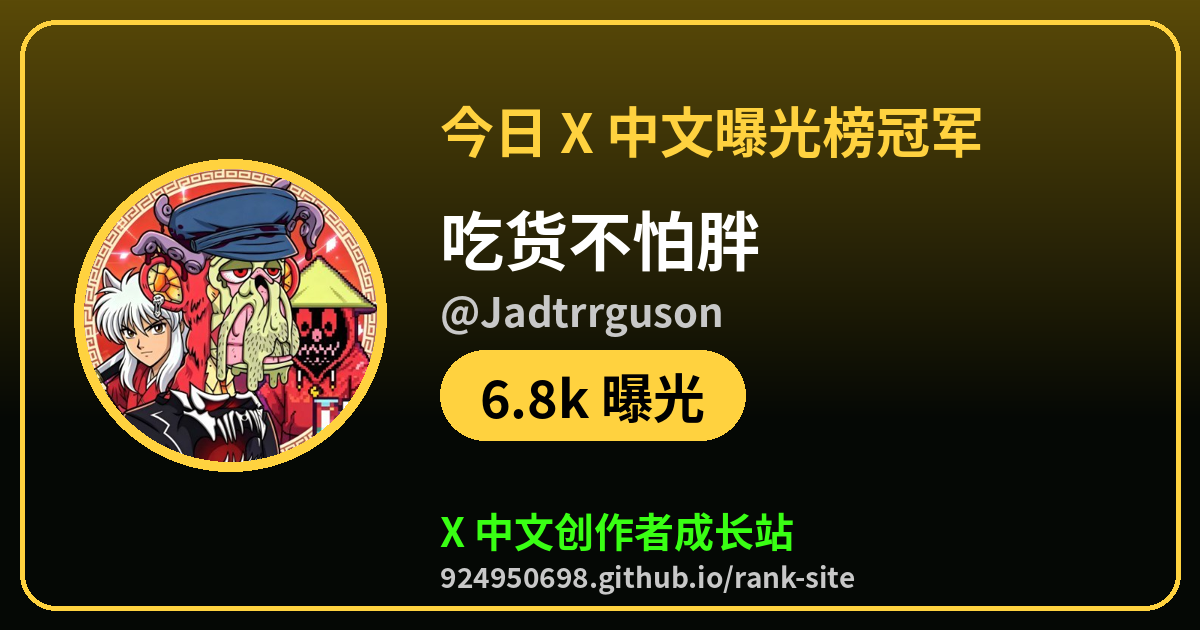
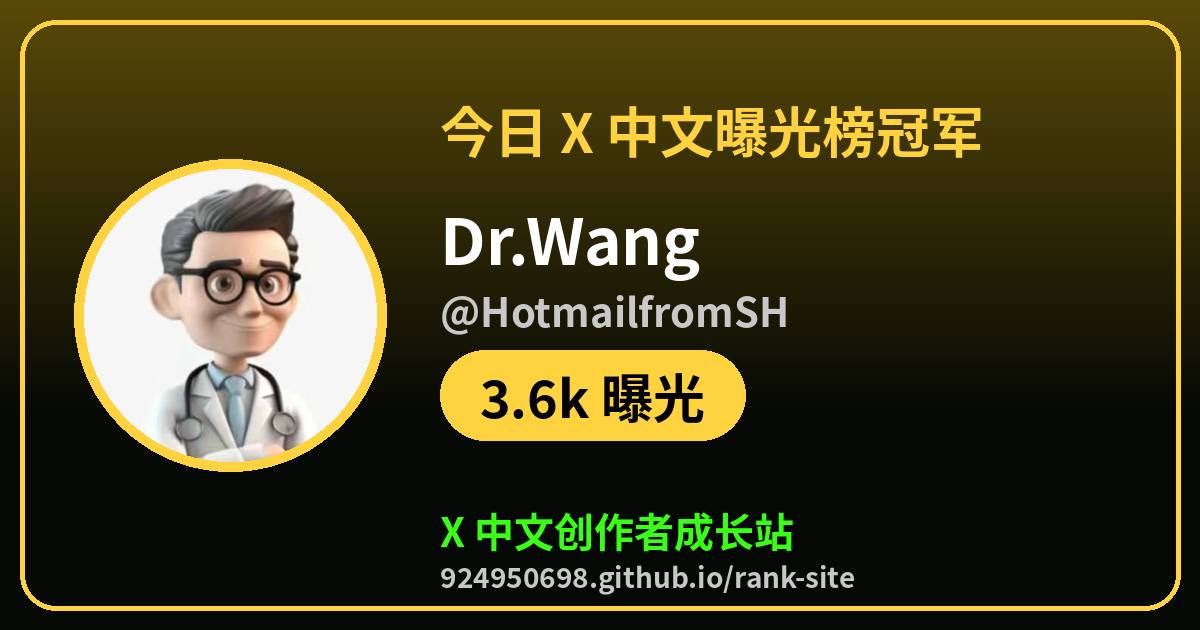
champ: 2026-10-18 19:28 CST

Changed region(s): [[0.0617, 0.2714, 0.3392, 0.754], [0.37, 0.3317, 0.6783, 0.5429], [0.4008, 0.6032, 0.4625, 0.6635]]

diff --git a/champ/exposure.html b/champ/exposure.html
@@ -1,7 +1,7 @@
 <!doctype html><html lang="zh-CN"><head><meta charset="utf-8"><meta name="viewport" content="width=device-width,initial-scale=1">
-<title>今日 X 中文曝光榜冠军：🍭吃货不怕胖（@Jadtrrguson）</title><meta name="description" content="6.8k 曝光，来看看今天谁在爆，你排第几">
-<meta property="og:type" content="website"><meta property="og:url" content="https://924950698.github.io/rank-site/champ/exposure.html"><meta property="og:title" content="今日 X 中文曝光榜冠军：🍭吃货不怕胖（@Jadtrrguson）"><meta property="og:description" content="6.8k 曝光，来看看今天谁在爆，你排第几">
-<meta property="og:image" content="https://924950698.github.io/rank-site/champ/exposure.png?v=20261018T1003"><meta name="twitter:card" content="summary_large_image"><meta name="twitter:site" content="@tigerr3aue">
-<meta name="twitter:title" content="今日 X 中文曝光榜冠军：🍭吃货不怕胖（@Jadtrrguson）"><meta name="twitter:description" content="6.8k 曝光，来看看今天谁在爆，你排第几"><meta name="twitter:image" content="https://924950698.github.io/rank-site/champ/exposure.png?v=20261018T1003">
-<meta http-equiv="refresh" content="0;url=https://924950698.github.io/rank-site/?champ=Jadtrrguson&amp;board=exposure#rank"><script>location.replace("https://924950698.github.io/rank-site/?champ=Jadtrrguson&board=exposure#rank")</script></head>
-<body style="background:#000;color:#fff;font-family:sans-serif;text-align:center;padding:40px"><a href="https://924950698.github.io/rank-site/?champ=Jadtrrguson&amp;board=exposure#rank" style="color:#39ff14">去 X 中文创作者成长站看冠军卡片</a></body></html>
+<title>今日 X 中文曝光榜冠军：Dr.Wang（@HotmailfromSH）</title><meta name="description" content="3.6k 曝光，来看看今天谁在爆，你排第几">
+<meta property="og:type" content="website"><meta property="og:url" content="https://924950698.github.io/rank-site/champ/exposure.html"><meta property="og:title" content="今日 X 中文曝光榜冠军：Dr.Wang（@HotmailfromSH）"><meta property="og:description" content="3.6k 曝光，来看看今天谁在爆，你排第几">
+<meta property="og:image" content="https://924950698.github.io/rank-site/champ/exposure.png?v=20261018T1109"><meta name="twitter:card" content="summary_large_image"><meta name="twitter:site" content="@tigerr3aue">
+<meta name="twitter:title" content="今日 X 中文曝光榜冠军：Dr.Wang（@HotmailfromSH）"><meta name="twitter:description" content="3.6k 曝光，来看看今天谁在爆，你排第几"><meta name="twitter:image" content="https://924950698.github.io/rank-site/champ/exposure.png?v=20261018T1109">
+<meta http-equiv="refresh" content="0;url=https://924950698.github.io/rank-site/?champ=HotmailfromSH&amp;board=exposure#rank"><script>location.replace("https://924950698.github.io/rank-site/?champ=HotmailfromSH&board=exposure#rank")</script></head>
+<body style="background:#000;color:#fff;font-family:sans-serif;text-align:center;padding:40px"><a href="https://924950698.github.io/rank-site/?champ=HotmailfromSH&amp;board=exposure#rank" style="color:#39ff14">去 X 中文创作者成长站看冠军卡片</a></body></html>

diff --git a/champ/comments.html b/champ/comments.html
@@ -1,7 +1,7 @@
 <!doctype html><html lang="zh-CN"><head><meta charset="utf-8"><meta name="viewport" content="width=device-width,initial-scale=1">
-<title>今日 X 中文评论榜冠军：🍭吃货不怕胖（@Jadtrrguson）</title><meta name="description" content="61 评论，来看看今天谁在爆，你排第几">
-<meta property="og:type" content="website"><meta property="og:url" content="https://924950698.github.io/rank-site/champ/comments.html"><meta property="og:title" content="今日 X 中文评论榜冠军：🍭吃货不怕胖（@Jadtrrguson）"><meta property="og:description" content="61 评论，来看看今天谁在爆，你排第几">
-<meta property="og:image" content="https://924950698.github.io/rank-site/champ/comments.png?v=20261018T1003"><meta name="twitter:card" content="summary_large_image"><meta name="twitter:site" content="@tigerr3aue">
-<meta name="twitter:title" content="今日 X 中文评论榜冠军：🍭吃货不怕胖（@Jadtrrguson）"><meta name="twitter:description" content="61 评论，来看看今天谁在爆，你排第几"><meta name="twitter:image" content="https://924950698.github.io/rank-site/champ/comments.png?v=20261018T1003">
-<meta http-equiv="refresh" content="0;url=https://924950698.github.io/rank-site/?champ=Jadtrrguson&amp;board=comments#rank"><script>location.replace("https://924950698.github.io/rank-site/?champ=Jadtrrguson&board=comments#rank")</script></head>
-<body style="background:#000;color:#fff;font-family:sans-serif;text-align:center;padding:40px"><a href="https://924950698.github.io/rank-site/?champ=Jadtrrguson&amp;board=comments#rank" style="color:#39ff14">去 X 中文创作者成长站看冠军卡片</a></body></html>
+<title>今日 X 中文评论榜冠军：LiuXing（@ETH116688）</title><meta name="description" content="27 评论，来看看今天谁在爆，你排第几">
+<meta property="og:type" content="website"><meta property="og:url" content="https://924950698.github.io/rank-site/champ/comments.html"><meta property="og:title" content="今日 X 中文评论榜冠军：LiuXing（@ETH116688）"><meta property="og:description" content="27 评论，来看看今天谁在爆，你排第几">
+<meta property="og:image" content="https://924950698.github.io/rank-site/champ/comments.png?v=20261018T1109"><meta name="twitter:card" content="summary_large_image"><meta name="twitter:site" content="@tigerr3aue">
+<meta name="twitter:title" content="今日 X 中文评论榜冠军：LiuXing（@ETH116688）"><meta name="twitter:description" content="27 评论，来看看今天谁在爆，你排第几"><meta name="twitter:image" content="https://924950698.github.io/rank-site/champ/comments.png?v=20261018T1109">
+<meta http-equiv="refresh" content="0;url=https://924950698.github.io/rank-site/?champ=ETH116688&amp;board=comments#rank"><script>location.replace("https://924950698.github.io/rank-site/?champ=ETH116688&board=comments#rank")</script></head>
+<body style="background:#000;color:#fff;font-family:sans-serif;text-align:center;padding:40px"><a href="https://924950698.github.io/rank-site/?champ=ETH116688&amp;board=comments#rank" style="color:#39ff14">去 X 中文创作者成长站看冠军卡片</a></body></html>

diff --git a/champ/growth.html b/champ/growth.html
@@ -1,7 +1,7 @@
 <!doctype html><html lang="zh-CN"><head><meta charset="utf-8"><meta name="viewport" content="width=device-width,initial-scale=1">
 <title>今日 X 中文涨粉榜冠军：普通人的杠杆笔记（@huangjun92）</title><meta name="description" content="+1.0k 粉，来看看今天谁在爆，你排第几">
 <meta property="og:type" content="website"><meta property="og:url" content="https://924950698.github.io/rank-site/champ/growth.html"><meta property="og:title" content="今日 X 中文涨粉榜冠军：普通人的杠杆笔记（@huangjun92）"><meta property="og:description" content="+1.0k 粉，来看看今天谁在爆，你排第几">
-<meta property="og:image" content="https://924950698.github.io/rank-site/champ/growth.png?v=20261018T1003"><meta name="twitter:card" content="summary_large_image"><meta name="twitter:site" content="@tigerr3aue">
-<meta name="twitter:title" content="今日 X 中文涨粉榜冠军：普通人的杠杆笔记（@huangjun92）"><meta name="twitter:description" content="+1.0k 粉，来看看今天谁在爆，你排第几"><meta name="twitter:image" content="https://924950698.github.io/rank-site/champ/growth.png?v=20261018T1003">
+<meta property="og:image" content="https://924950698.github.io/rank-site/champ/growth.png?v=20261018T1109"><meta name="twitter:card" content="summary_large_image"><meta name="twitter:site" content="@tigerr3aue">
+<meta name="twitter:title" content="今日 X 中文涨粉榜冠军：普通人的杠杆笔记（@huangjun92）"><meta name="twitter:description" content="+1.0k 粉，来看看今天谁在爆，你排第几"><meta name="twitter:image" content="https://924950698.github.io/rank-site/champ/growth.png?v=20261018T1109">
 <meta http-equiv="refresh" content="0;url=https://924950698.github.io/rank-site/?champ=huangjun92&amp;board=growth#rank"><script>location.replace("https://924950698.github.io/rank-site/?champ=huangjun92&board=growth#rank")</script></head>
 <body style="background:#000;color:#fff;font-family:sans-serif;text-align:center;padding:40px"><a href="https://924950698.github.io/rank-site/?champ=huangjun92&amp;board=growth#rank" style="color:#39ff14">去 X 中文创作者成长站看冠军卡片</a></body></html>

diff --git a/champ/rising.html b/champ/rising.html
@@ -1,7 +1,7 @@
 <!doctype html><html lang="zh-CN"><head><meta charset="utf-8"><meta name="viewport" content="width=device-width,initial-scale=1">
 <title>今日 X 中文新号进步榜冠军：Baozoupanpan（@Baozoupan）</title><meta name="description" content="+484 粉，来看看今天谁在爆，你排第几">
 <meta property="og:type" content="website"><meta property="og:url" content="https://924950698.github.io/rank-site/champ/rising.html"><meta property="og:title" content="今日 X 中文新号进步榜冠军：Baozoupanpan（@Baozoupan）"><meta property="og:description" content="+484 粉，来看看今天谁在爆，你排第几">
-<meta property="og:image" content="https://924950698.github.io/rank-site/champ/rising.png?v=20261018T1003"><meta name="twitter:card" content="summary_large_image"><meta name="twitter:site" content="@tigerr3aue">
-<meta name="twitter:title" content="今日 X 中文新号进步榜冠军：Baozoupanpan（@Baozoupan）"><meta name="twitter:description" content="+484 粉，来看看今天谁在爆，你排第几"><meta name="twitter:image" content="https://924950698.github.io/rank-site/champ/rising.png?v=20261018T1003">
+<meta property="og:image" content="https://924950698.github.io/rank-site/champ/rising.png?v=20261018T1109"><meta name="twitter:card" content="summary_large_image"><meta name="twitter:site" content="@tigerr3aue">
+<meta name="twitter:title" content="今日 X 中文新号进步榜冠军：Baozoupanpan（@Baozoupan）"><meta name="twitter:description" content="+484 粉，来看看今天谁在爆，你排第几"><meta name="twitter:image" content="https://924950698.github.io/rank-site/champ/rising.png?v=20261018T1109">
 <meta http-equiv="refresh" content="0;url=https://924950698.github.io/rank-site/?champ=Baozoupan&amp;board=rising#rank"><script>location.replace("https://924950698.github.io/rank-site/?champ=Baozoupan&board=rising#rank")</script></head>
 <body style="background:#000;color:#fff;font-family:sans-serif;text-align:center;padding:40px"><a href="https://924950698.github.io/rank-site/?champ=Baozoupan&amp;board=rising#rank" style="color:#39ff14">去 X 中文创作者成长站看冠军卡片</a></body></html>
